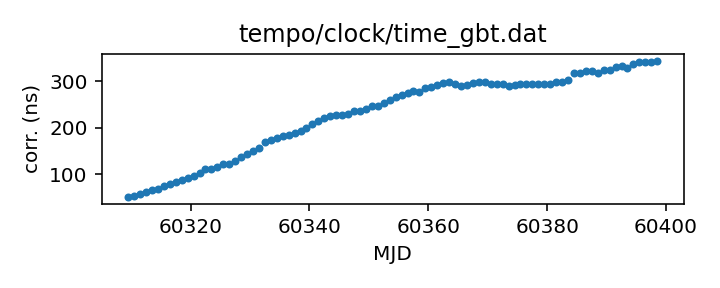
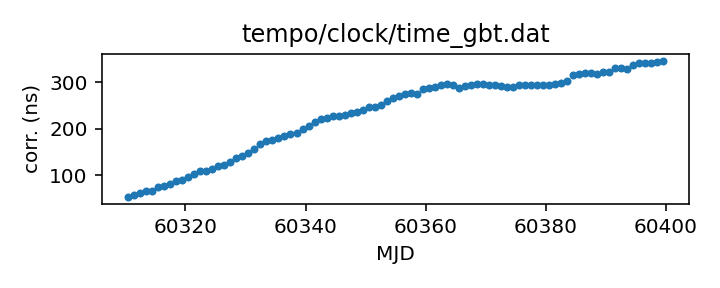
Routine gh-pages update from Github action Sun Mar 31 20:30:01 UTC 2024

diff --git a/status.md b/status.md
@@ -13,17 +13,17 @@ name of each clock file links to a page with more details.
 
 | Name | File | Corrections start | Corrections end | Last check date | Last check result 
 |:--- |:--- | --- | --- | --- |:--- 
-| [GPS to UTC](T2runtime/clock/gps2utc.clk.html) | `T2runtime/clock/gps2utc.clk` | 1993-01-01 MJD 48988.0 | 2024-02-29 MJD 60369.0 | 2024-03-30 | Unchanged 
-| [GPS to UTC (Combined Clock)](T2runtime/clock/gps2utc_cc.clk.html) | `T2runtime/clock/gps2utc_cc.clk` | 1993-01-01 MJD 48988.0 | 2024-02-29 MJD 60369.0 | 2024-03-30 | Unchanged 
-| [GPS to UTC (Corrected)](T2runtime/clock/gps2utc_c0p.clk.html) | `T2runtime/clock/gps2utc_c0p.clk` | 2010-12-29 MJD 55559.0 | 2024-02-29 MJD 60369.0 | 2024-03-30 | Unchanged 
-| [GBT](tempo/clock/time_gbt.dat.html) | `tempo/clock/time_gbt.dat` | 2000-12-31 MJD 51909.5 | 2024-03-29 MJD 60398.5 | 2024-03-30 | Updated 
-| [GBT (TEMPO2 converted from TEMPO)](T2runtime/clock/gbt2gps.clk.html) | `T2runtime/clock/gbt2gps.clk` | 2000-12-31 MJD 51909.5 | 2023-03-20 MJD 60023.5 | 2024-03-30 | **Validation failed** 
+| [GPS to UTC](T2runtime/clock/gps2utc.clk.html) | `T2runtime/clock/gps2utc.clk` | 1993-01-01 MJD 48988.0 | 2024-02-29 MJD 60369.0 | 2024-03-31 | Unchanged 
+| [GPS to UTC (Combined Clock)](T2runtime/clock/gps2utc_cc.clk.html) | `T2runtime/clock/gps2utc_cc.clk` | 1993-01-01 MJD 48988.0 | 2024-02-29 MJD 60369.0 | 2024-03-31 | Unchanged 
+| [GPS to UTC (Corrected)](T2runtime/clock/gps2utc_c0p.clk.html) | `T2runtime/clock/gps2utc_c0p.clk` | 2010-12-29 MJD 55559.0 | 2024-02-29 MJD 60369.0 | 2024-03-31 | Unchanged 
+| [GBT](tempo/clock/time_gbt.dat.html) | `tempo/clock/time_gbt.dat` | 2000-12-31 MJD 51909.5 | 2024-03-30 MJD 60399.5 | 2024-03-31 | Updated 
+| [GBT (TEMPO2 converted from TEMPO)](T2runtime/clock/gbt2gps.clk.html) | `T2runtime/clock/gbt2gps.clk` | 2000-12-31 MJD 51909.5 | 2023-03-20 MJD 60023.5 | 2024-03-31 | **Validation failed** 
 | [Jodrell Bank](T2runtime/clock/jb2gps.clk.html) | `T2runtime/clock/jb2gps.clk` | 2006-10-13 MJD 54021.4 | 2023-12-04 MJD 60282.0 | 2024-03-28 | Unchanged 
 | [Jodrell Bank Roach](T2runtime/clock/jbroach2jb.clk.html) | `T2runtime/clock/jbroach2jb.clk` | 2006-10-13 MJD 54021.4 | 2018-03-20 MJD 58197.6 | 2024-03-28 | Unchanged 
 | [Jodrell Bank DFB](T2runtime/clock/jbdfb2jb.clk.html) | `T2runtime/clock/jbdfb2jb.clk` | 2006-10-13 MJD 54021.4 | 2017-05-11 MJD 57884.0 | 2024-03-28 | Unchanged 
 | [Meerkat (observatory)](T2runtime/clock/mk2utc_observatory.clk.html) | `T2runtime/clock/mk2utc_observatory.clk` | 2019-01-01 MJD 58484.0 | 2024-01-31 MJD 60341.0 | 2024-03-28 | Unchanged 
-| [Leap seconds](tempo/clock/leap.sec.html) | `tempo/clock/leap.sec` | 1972-07-01 MJD 41499.0 | 2017-01-01 MJD 57754.0 | 2024-03-30 | Unchanged 
-| [UT1 table](tempo/clock/ut1.dat.html) | `tempo/clock/ut1.dat` | 1973-01-02 MJD 41684.0 | 2025-04-05 MJD 60770.0 | 2024-03-30 | Unchanged 
+| [Leap seconds](tempo/clock/leap.sec.html) | `tempo/clock/leap.sec` | 1972-07-01 MJD 41499.0 | 2017-01-01 MJD 57754.0 | 2024-03-31 | Unchanged 
+| [UT1 table](tempo/clock/ut1.dat.html) | `tempo/clock/ut1.dat` | 1973-01-02 MJD 41684.0 | 2025-04-05 MJD 60770.0 | 2024-03-31 | Unchanged 
 
 
 

diff --git a/T2runtime/clock/gbt2gps.clk.md b/T2runtime/clock/gbt2gps.clk.md
@@ -25,12 +25,11 @@ If questions arise about the conversion, contact Anne Archibald
 | Clock file start | 2000-12-31 MJD 51909.5 |
 | Clock file end | 2023-03-20 MJD 60023.5 |
 | Update interval (days) | 1 |
-| Last update attempt | 2024-03-30 |
+| Last update attempt | 2024-03-31 |
 | Last update result | Validation failed |
 
 Log entries from the last few update attempts:
 ```
-2024-03-21 20:29:38.232 - Validation failed: New version of T2runtime/clock/gbt2gps.clk clock corrections differ from old version where they overlap in 11 places
 2024-03-22 20:29:29.198 - Validation failed: New version of T2runtime/clock/gbt2gps.clk clock corrections differ from old version where they overlap in 11 places
 2024-03-23 20:29:41.541 - Validation failed: New version of T2runtime/clock/gbt2gps.clk clock corrections differ from old version where they overlap in 11 places
 2024-03-24 20:29:16.754 - Validation failed: New version of T2runtime/clock/gbt2gps.clk clock corrections differ from old version where they overlap in 11 places
@@ -40,6 +39,7 @@ Log entries from the last few update attempts:
 2024-03-28 20:29:30.516 - Validation failed: New version of T2runtime/clock/gbt2gps.clk clock corrections differ from old version where they overlap in 11 places
 2024-03-29 20:29:23.285 - Validation failed: New version of T2runtime/clock/gbt2gps.clk clock corrections differ from old version where they overlap in 11 places
 2024-03-30 20:29:49.333 - Validation failed: New version of T2runtime/clock/gbt2gps.clk clock corrections differ from old version where they overlap in 11 places
+2024-03-31 20:29:38.301 - Validation failed: New version of T2runtime/clock/gbt2gps.clk clock corrections differ from old version where they overlap in 11 places
 ```
 [Full log](https://raw.githubusercontent.com/ipta/pulsar-clock-corrections/main/log/T2runtime/clock/gbt2gps.clk.log)
 

diff --git a/T2runtime/clock/gps2utc_cc.clk.md b/T2runtime/clock/gps2utc_cc.clk.md
@@ -29,12 +29,11 @@ about the BIPM's published corrections, contact <tai@bipm.org>.
 | Clock file start | 1993-01-01 MJD 48988.0 |
 | Clock file end | 2024-02-29 MJD 60369.0 |
 | Update interval (days) | 1 |
-| Last update attempt | 2024-03-30 |
+| Last update attempt | 2024-03-31 |
 | Last update result | Unchanged |
 
 Log entries from the last few update attempts:
 ```
-2024-03-21 20:29:37.319 - Unchanged
 2024-03-22 20:29:28.651 - Unchanged
 2024-03-23 20:29:41.082 - Unchanged
 2024-03-24 20:29:15.350 - Failed to download: <urlopen error 530 Sorry, the maximum number of allowed clients (20) are already connected.>
@@ -44,6 +43,7 @@ Log entries from the last few update attempts:
 2024-03-28 20:29:29.693 - Unchanged
 2024-03-29 20:29:22.888 - Unchanged
 2024-03-30 20:29:48.475 - Unchanged
+2024-03-31 20:29:37.707 - Unchanged
 ```
 [Full log](https://raw.githubusercontent.com/ipta/pulsar-clock-corrections/main/log/T2runtime/clock/gps2utc_cc.clk.log)
 

diff --git a/T2runtime/clock/gps2utc.clk.md b/T2runtime/clock/gps2utc.clk.md
@@ -32,12 +32,11 @@ about the BIPM's published corrections, contact <tai@bipm.org>.
 | Clock file start | 1993-01-01 MJD 48988.0 |
 | Clock file end | 2024-02-29 MJD 60369.0 |
 | Update interval (days) | 1 |
-| Last update attempt | 2024-03-30 |
+| Last update attempt | 2024-03-31 |
 | Last update result | Unchanged |
 
 Log entries from the last few update attempts:
 ```
-2024-03-21 20:29:37.293 - Unchanged
 2024-03-22 20:29:28.626 - Unchanged
 2024-03-23 20:29:41.056 - Unchanged
 2024-03-24 20:29:14.355 - Failed to download: <urlopen error 530 Sorry, the maximum number of allowed clients (20) are already connected.>
@@ -47,6 +46,7 @@ Log entries from the last few update attempts:
 2024-03-28 20:29:29.668 - Unchanged
 2024-03-29 20:29:22.863 - Unchanged
 2024-03-30 20:29:48.450 - Unchanged
+2024-03-31 20:29:37.681 - Unchanged
 ```
 [Full log](https://raw.githubusercontent.com/ipta/pulsar-clock-corrections/main/log/T2runtime/clock/gps2utc.clk.log)
 

diff --git a/tempo/clock/time_gbt.dat.md b/tempo/clock/time_gbt.dat.md
@@ -31,14 +31,13 @@ If questions arise, contact Ryan S. Lynch <rlynch@nrao.edu>.
 | Format | tempo |
 | Bogus last correction | False |
 | Clock file start | 2000-12-31 MJD 51909.5 |
-| Clock file end | 2024-03-29 MJD 60398.5 |
+| Clock file end | 2024-03-30 MJD 60399.5 |
 | Update interval (days) | 1 |
-| Last update attempt | 2024-03-30 |
+| Last update attempt | 2024-03-31 |
 | Last update result | Updated |
 
 Log entries from the last few update attempts:
 ```
-2024-03-21 20:29:37.855 - Updated
 2024-03-22 20:29:29.139 - Updated
 2024-03-23 20:29:41.484 - Updated
 2024-03-24 20:29:16.696 - Updated
@@ -48,6 +47,7 @@ Log entries from the last few update attempts:
 2024-03-28 20:29:30.167 - Updated
 2024-03-29 20:29:23.228 - Updated
 2024-03-30 20:29:49.276 - Updated
+2024-03-31 20:29:38.244 - Updated
 ```
 [Full log](https://raw.githubusercontent.com/ipta/pulsar-clock-corrections/main/log/tempo/clock/time_gbt.dat.log)
 

diff --git a/T2runtime/clock/gps2utc_c0p.clk.md b/T2runtime/clock/gps2utc_c0p.clk.md
@@ -30,12 +30,11 @@ about the BIPM's published corrections, contact <tai@bipm.org>.
 | Clock file start | 2010-12-29 MJD 55559.0 |
 | Clock file end | 2024-02-29 MJD 60369.0 |
 | Update interval (days) | 1 |
-| Last update attempt | 2024-03-30 |
+| Last update attempt | 2024-03-31 |
 | Last update result | Unchanged |
 
 Log entries from the last few update attempts:
 ```
-2024-03-21 20:29:37.328 - Unchanged
 2024-03-22 20:29:28.660 - Unchanged
 2024-03-23 20:29:41.092 - Unchanged
 2024-03-24 20:29:16.287 - Unchanged
@@ -45,6 +44,7 @@ Log entries from the last few update attempts:
 2024-03-28 20:29:29.702 - Unchanged
 2024-03-29 20:29:22.897 - Unchanged
 2024-03-30 20:29:48.484 - Unchanged
+2024-03-31 20:29:37.716 - Unchanged
 ```
 [Full log](https://raw.githubusercontent.com/ipta/pulsar-clock-corrections/main/log/T2runtime/clock/gps2utc_c0p.clk.log)
 

diff --git a/tempo/clock/leap.sec.md b/tempo/clock/leap.sec.md
@@ -21,12 +21,11 @@ If there are any questions, contact Anne Archibald
 | File start | 1972-07-01 MJD 41499.0 |
 | File end | 2017-01-01 MJD 57754.0 |
 | Update interval (days) | 0 |
-| Last update attempt | 2024-03-30 |
+| Last update attempt | 2024-03-31 |
 | Last update result | Unchanged |
 
 Log entries from the last few update attempts:
 ```
-2024-03-21 20:29:53.480 - Unchanged
 2024-03-22 20:29:29.227 - Unchanged
 2024-03-23 20:29:41.569 - Unchanged
 2024-03-24 20:29:16.784 - Unchanged
@@ -36,5 +35,6 @@ Log entries from the last few update attempts:
 2024-03-28 20:29:51.708 - Unchanged
 2024-03-29 20:29:23.315 - Unchanged
 2024-03-30 20:29:49.362 - Unchanged
+2024-03-31 20:29:38.330 - Unchanged
 ```
 [Full log](https://raw.githubusercontent.com/ipta/pulsar-clock-corrections/main/log/tempo/clock/leap.sec.log)

diff --git a/tempo/clock/ut1.dat.md b/tempo/clock/ut1.dat.md
@@ -30,12 +30,11 @@ If there are any questions, contact Anne Archibald
 | File start | 1973-01-02 MJD 41684.0 |
 | File end | 2025-04-05 MJD 60770.0 |
 | Update interval (days) | 0 |
-| Last update attempt | 2024-03-30 |
+| Last update attempt | 2024-03-31 |
 | Last update result | Unchanged |
 
 Log entries from the last few update attempts:
 ```
-2024-03-21 20:30:02.563 - Updated
 2024-03-22 20:29:36.972 - Unchanged
 2024-03-23 20:29:50.666 - Unchanged
 2024-03-24 20:29:25.526 - Unchanged
@@ -45,5 +44,6 @@ Log entries from the last few update attempts:
 2024-03-28 20:30:01.490 - Updated
 2024-03-29 20:29:32.208 - Unchanged
 2024-03-30 20:30:03.085 - Unchanged
+2024-03-31 20:29:47.091 - Unchanged
 ```
 [Full log](https://raw.githubusercontent.com/ipta/pulsar-clock-corrections/main/log/tempo/clock/ut1.dat.log)
